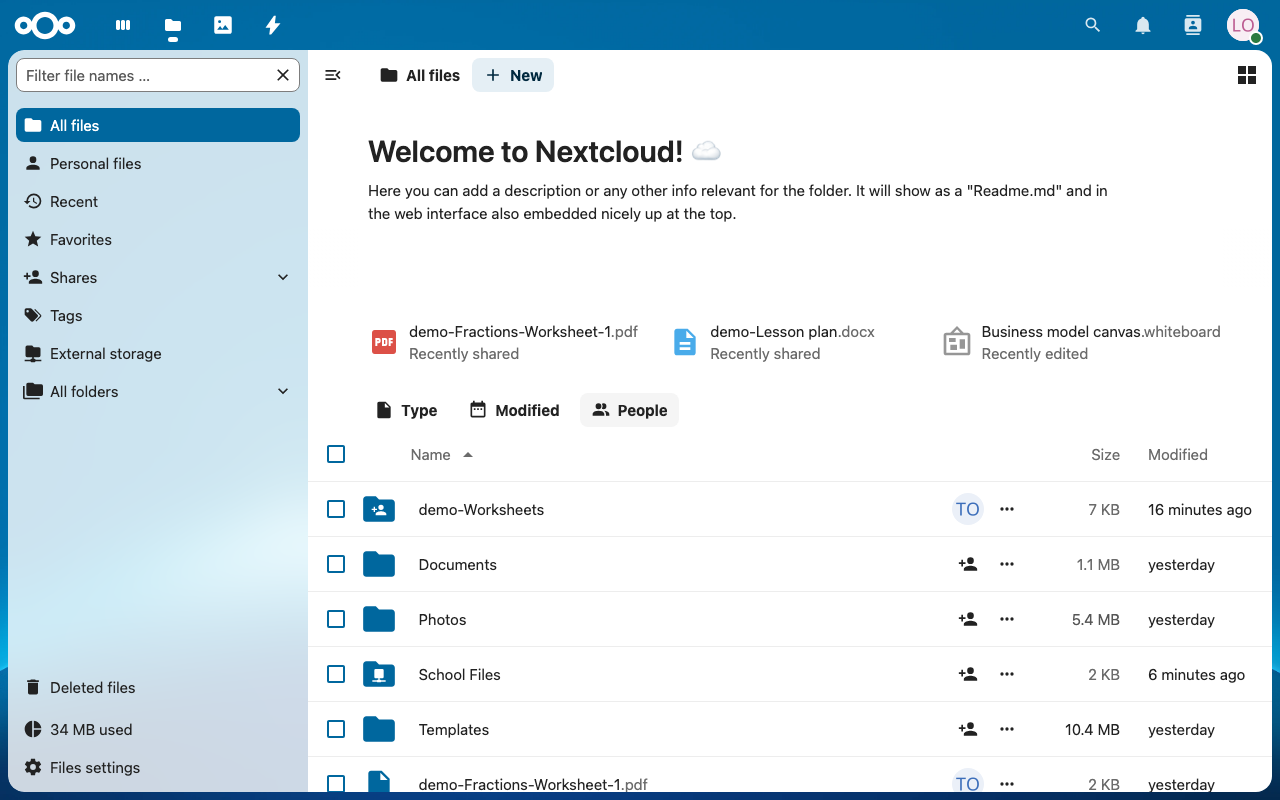
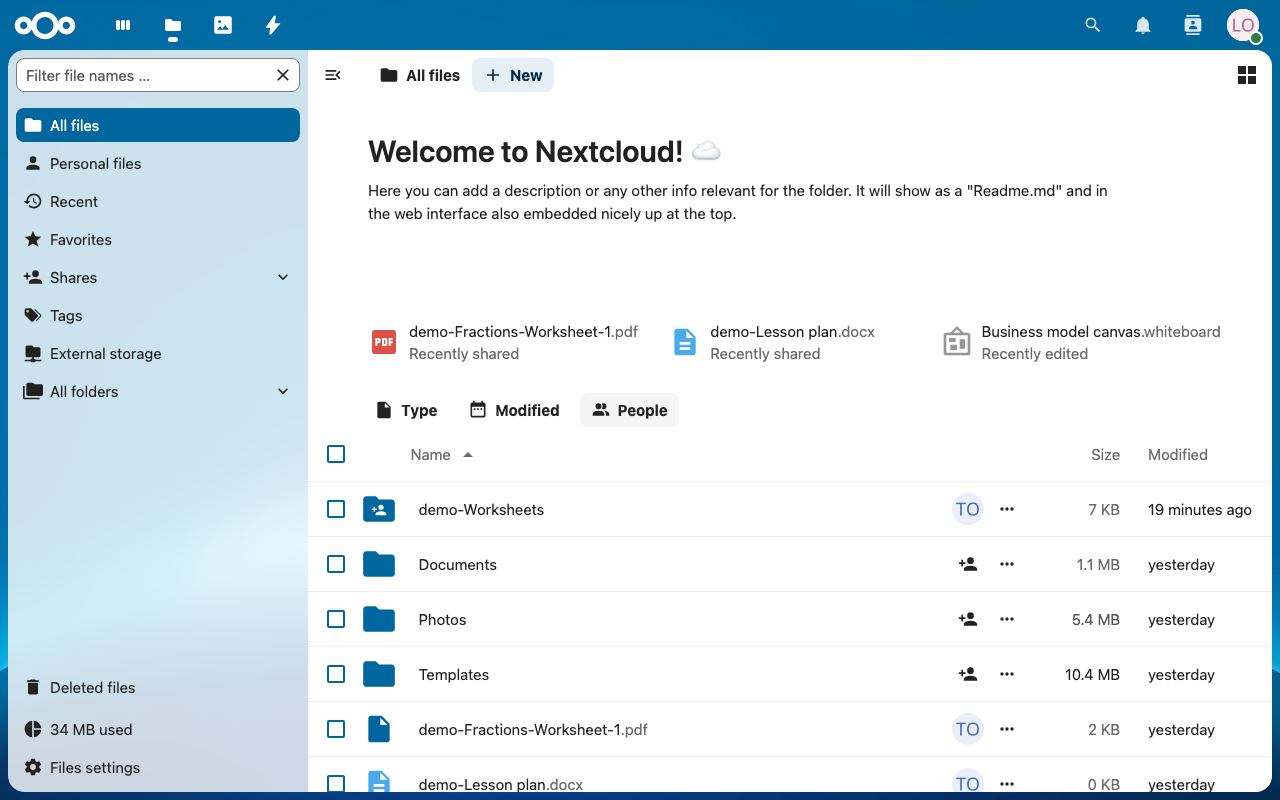
tutorial: F2-07 retake (learner sees share only), ch08 teachers-only School Files

diff --git a/docs/tutorial-justice/chapters/08-files-disk.md b/docs/tutorial-justice/chapters/08-files-disk.md
@@ -40,6 +40,6 @@ Note (not yet tested on IDEA): Kolibri can also copy channels from **another Kol
    ![File in School Files shared with demo-Grade5A](../screenshots/F2-06.png)
 5. A learner in that group (here `demo-learner1`) signs in and finds the file in **All files** (and under *Recently shared*).
    ![Learner sees the shared file](../screenshots/F2-07.png)
-   Note: on the demo box the **School Files** folder itself is also visible to learners (the mount is available to all Nextcloud users; **to confirm** with the IDEA team whether it should be limited to teachers).
+   Only teachers see the **School Files** folder; learners get only the files that are shared with them.
 
 Reminder: in version 1 a Files Disk is for **Nextcloud only** (not Kolibri), and **backups do not cover Files Disk content** (the Backup Disk links app instances only). Keep your own copy of important files.
